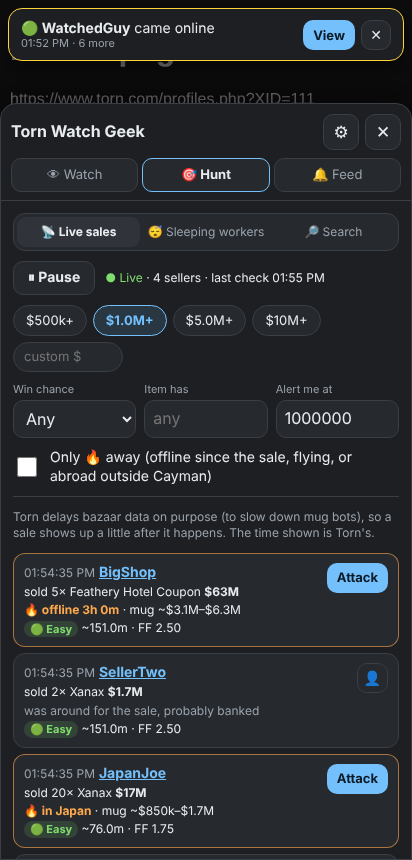
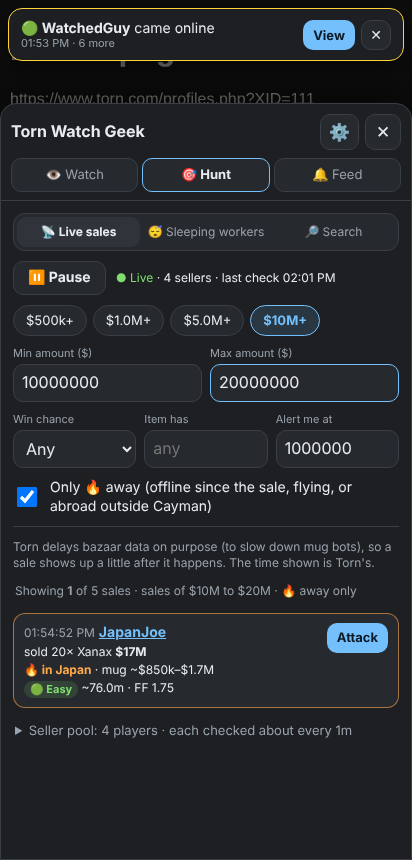
1.1.5: max amount in Live sales, stats retry, company workers, search explains zero results
- Live sales: Min and Max amount boxes (chips fill Min).
- Sellers listed without stats get them as soon as FF Scouter accepts the key.
- Sleeping workers: ask for the employees selection (company_employees);
  profile alone may not list workers. Says so if Torn sends none.
- Search: when nothing matches, list how many players each filter ruled
  out, plus a Reset filters button.
- Messages from other Hunt tabs no longer show under Live sales.

Claude-Session: https://claude.ai/code/session_01QZib5gaoEbii82ger62EmG

diff --git a/torn-watch-geek.user.js b/torn-watch-geek.user.js
@@ -1,7 +1,7 @@
 // ==UserScript==
 // @name         Torn Watch Geek
 // @namespace    https://github.com/SarcasticGeekJr/torn-watch-geek
-// @version      1.1.3
+// @version      1.1.5
 // @description  Watch players (online, hospital, jail, flight landing times, bazaar and Item Market listings) and find mug targets: rich sellers, sleeping workers in high-paying companies, and your own advanced search, all with estimated battle stats and win chance. Built for Torn PDA, works in Tampermonkey too.
 // @author       SarcasticGeekJr
 // @match        https://www.torn.com/*
@@ -48,7 +48,7 @@
 
   // ---------------------------------------------------------------- config
   const PDA_KEY = "###PDA-APIKEY###"; // Torn PDA replaces this with your key at runtime
-  const VERSION = "1.1.3"; // keep in sync with @version above
+  const VERSION = "1.1.5"; // keep in sync with @version above
   const UPDATE_URL = "https://raw.githubusercontent.com/SarcasticGeekJr/torn-watch-geek/main/torn-watch-geek.user.js";
   const TORN = "https://api.torn.com";
   const FFS = "https://ffscouter.com/api/v1/get-stats";
@@ -101,7 +101,7 @@
     fab: null,
     tab: "watch",
     hunt: "live",
-    live: { running: false, min: 1000000, onlyAway: false, win: "", item: "", alertMin: 1000000, poolMax: 30, calls: 25 },
+    live: { running: false, min: 1000000, max: "", onlyAway: false, win: "", item: "", alertMin: 1000000, poolMax: 30, calls: 25 },
     sleep: { types: [], days: 14, minStars: 0, companies: 30, okOnly: true },
     search: {
       name: "", faction: "", lvlMin: "", lvlMax: "", inMin: "", inMax: "", okOnly: true, nwMin: "", offMin: "", offMax: "",
@@ -590,16 +590,18 @@
 
   async function getCompany(cid, opts = {}) {
     const c = CO[cid];
-    if (c && c.emps && !opts.force && now() - c.t < COMPANY_TTL) return c;
-    const d = await torn(`/company/${cid}?selections=profile`, COMPANY_TTL, opts);
+    if (c && c.emps && c.v === 2 && !opts.force && now() - c.t < COMPANY_TTL) return c;
+    // Workers come from the "employees" selection (company_employees); "profile" may leave them out.
+    const d = await torn(`/company/${cid}?selections=profile,employees`, COMPANY_TTL, opts);
     const co = d.company || d;
     const emps = {};
-    for (const [uid, e] of Object.entries(co.employees || {})) {
+    for (const [uid, e] of Object.entries(d.company_employees || co.employees || {})) {
       const la = e.last_action || {};
       emps[uid] = { n: e.name, pos: e.position, dic: +e.days_in_company || 0, la: +la.timestamp || null, st: (e.status && e.status.state) || "" };
       upsert(uid, { n: e.name, la: emps[uid].la, st: emps[uid].st || null, co: +cid, ct: +co.company_type || null, pos: e.position, dic: emps[uid].dic, src: "company" });
     }
     CO[cid] = {
+      v: 2,
       t: now(),
       n: co.name,
       type: +co.company_type || 0,
@@ -648,6 +650,7 @@
       if (d && d.error) throw new Error(d.error.error || d.error.message || d.error);
       const arr = Array.isArray(d) ? d : d.data || d.results || [];
       ffErr = "";
+      for (const k of Object.keys(ffTried)) delete ffTried[k];
       for (const r of arr) {
         const id = +(r.player_id || r.id);
         if (!id) continue;
@@ -1440,7 +1443,8 @@
   function setMsg(t) {
     view.msg = t;
     const m = $(".hunt-msg");
-    if (m) m.innerHTML = t;
+    // Live sales has its own status line; messages from the other tabs don't belong there.
+    if (m) m.innerHTML = S.hunt === "live" ? "" : t;
   }
   function renderGrowMsg() {
     const m = $(".grow-msg");
@@ -1552,7 +1556,11 @@
         <span class="small livestat"></span>
       </div>
       <div class="chips">${chips.map((v) => `<button class="chip ${+f.min === v ? "on" : ""}" data-act="liveMin" data-v="${v}">${short(v)}+</button>`).join("")}
-        <input class="chip-in" data-lf="min" type="number" inputmode="numeric" placeholder="custom $" value="${chips.includes(+f.min) ? "" : esc(f.min)}"></div>
+</div>
+      <div class="filters two">
+        <label>Min amount ($)<input data-lf="min" type="number" inputmode="numeric" placeholder="0" value="${esc(f.min)}"></label>
+        <label>Max amount ($)<input data-lf="max" type="number" inputmode="numeric" placeholder="no max" value="${esc(f.max)}"></label>
+      </div>
       <div class="filters">
         <label>Win chance<select data-lf="win"><option value="">Any</option><option value="easy" ${f.win === "easy" ? "selected" : ""}>🟢 Easy</option><option value="likely" ${f.win === "likely" ? "selected" : ""}>🟡 Likely+</option><option value="risky" ${f.win === "risky" ? "selected" : ""}>🟠 Risky+</option></select></label>
         <label>Item has<input data-lf="item" type="text" placeholder="any" value="${esc(f.item)}"></label>
@@ -1582,6 +1590,7 @@
         if (["poolMax", "calls"].includes(k)) f[k] = Math.max(1, Math.min(k === "calls" ? 100 : 200, +el.value || DEFAULTS.live[k]));
         save();
         if (k === "min") $$(".chip[data-act=liveMin]").forEach((c) => c.classList.toggle("on", +c.dataset.v === +f.min));
+        if (k === "max" && el.value === "") f.max = "";
         drawLive();
       })
     );
@@ -1601,11 +1610,15 @@
     const n = Object.keys(POOL).length;
     if (st) st.innerHTML = f.running ? `<span class="g">● Live</span> · ${n} sellers${liveLast ? ` · last check ${clock(liveLast)}` : ""}${apiQueued() ? " · waiting for API limit" : ""}` : `<span class="muted">Paused</span>`;
     const min = +f.min || 0;
+    const max = +f.max || 0; // 0 = no maximum
     let noStats = 0;
     const all = LIVE.filter((r) => {
       const hot = isHot(r);
       if (f.onlyAway && !hot) return false;
-      if (r.v < min && !(hot && unbanked(r.pid) >= min)) return false;
+      // The amount that matters: the sale, or for 🔥 sellers everything unbanked since they were last seen.
+      const amt = hot ? Math.max(r.v, unbanked(r.pid)) : r.v;
+      if (amt < min) return false;
+      if (max && amt > max) return false;
       if (f.item && !r.item.toLowerCase().includes(f.item.toLowerCase())) return false;
       if (f.win) {
         const k = winOf(r.pid).k;
@@ -1615,9 +1628,11 @@
       return true;
     });
     const rows = all.slice(0, 100);
+    const missing = [...new Set(LIVE.slice(0, 150).map((r) => r.pid))].filter(needStats);
+    if (missing.length) missing.forEach((pid) => stats(pid).then(drawLiveSoon));
     // Say exactly which filters are on, so it's clear what is being used.
     const winLbl = { easy: "🟢 Easy", likely: "🟡 Likely or better", risky: "🟠 Risky or better" }[f.win];
-    const on = [`sales of ${short(min)} or more`, f.onlyAway ? "🔥 away only" : "", winLbl ? winLbl + " only" : "", f.item ? `item has "${esc(f.item)}"` : ""].filter(Boolean);
+    const on = [max ? `sales of ${short(min)} to ${short(max)}` : `sales of ${short(min)} or more`, f.onlyAway ? "🔥 away only" : "", winLbl ? winLbl + " only" : "", f.item ? `item has "${esc(f.item)}"` : ""].filter(Boolean);
     const sum = `<p class="small livesum">Showing <b>${all.length}</b> of ${LIVE.length} sales · ${on.join(" · ")}${noStats ? ` · <span class="a">${noStats} hidden because their stats haven't loaded${ffErr ? ` (${esc(ffErr)})` : ""}</span>` : ""}</p>`;
     box.innerHTML =
       sum +
@@ -1753,11 +1768,16 @@
         drawSoon();
       }
       const shown = list.filter((r) => !r.hidden);
-      setMsg(`${shown.length} sleeping workers in ${cos.length} companies. Getting stats…`);
+      const seen = cos.reduce((a, c) => a + (CO[c.cid] ? Object.keys(CO[c.cid].emps || {}).length : 0), 0);
+      if (!seen && cos.length) {
+        setMsg(`<span class="r">Torn sent no worker lists for these ${cos.length} companies, so nothing could be checked.</span>`);
+        return;
+      }
+      setMsg(`${shown.length} sleeping workers in ${cos.length} companies (${seen} workers checked). Getting stats…`);
       drawResults();
       await Promise.all(shown.slice(0, 80).map((r) => stats(r.id)));
       if (view.runId === runId) {
-        setMsg(`${shown.length} sleeping workers in ${cos.length} companies. Pay estimates are rough; the director may have fired them or cut their pay.`);
+        setMsg(`${shown.length} sleeping workers in ${cos.length} companies (${seen} workers checked). Pay estimates are rough; the director may have fired them or cut their pay.`);
         drawSoon();
       }
     } catch (e) {
@@ -1807,7 +1827,7 @@
       <label class="tog"><input type="checkbox" data-f="noClothing" ${f.noClothing ? "checked" : ""}> Hide 7★+ clothing store workers (−75% mug)</label>
       <label class="tog">Hide players I mugged in the last<input class="num" data-f="hideMugged" type="number" inputmode="numeric" value="${esc(f.hideMugged)}"> days</label>
       <label class="tog">Check details of the top<input class="num" data-f="check" type="number" inputmode="numeric" value="${esc(f.check)}"> results</label>
-      <div class="row-btn"><button class="btn" data-act="searchGo">Search</button><button class="btn ghost" data-act="grow" ${growBusy ? "disabled" : ""}>➕ Find more players</button></div>
+      <div class="row-btn"><button class="btn" data-act="searchGo">Search</button><button class="btn ghost" data-act="grow" ${growBusy ? "disabled" : ""}>➕ Find more players</button><button class="btn ghost" data-act="searchReset">Reset filters</button></div>
       <p class="muted small">Searching <b>${n.toLocaleString()}</b> players saved on this phone. 'Find more players' uses ${S.grow.calls} API calls and adds up to ${S.grow.calls * 100} from the Hall of Fame and faction lists. <span class="grow-msg">${esc(growMsg)}</span></p>`;
     bindForm(f);
     if (!CTYPES && apiKey()) companyTypes().then(() => S.hunt === "search" && view.name === "hunt" && !root.activeElement && searchForm()).catch(() => {});
@@ -1817,25 +1837,27 @@
   function needsProfile(f) {
     return !!(f.ageMin || f.ageMax || f.gender || f.property || f.ctype || f.starsMin || f.starsMax || f.noClothing || f.okOnly);
   }
-  function matchCheap(id, p, f) {
+  // Returns "" when the player passes the quick filters, or the name of the first filter that ruled them out.
+  function cheapFail(id, p, f) {
     const L = numOr;
-    if (f.name && !(p.n || "").toLowerCase().includes(f.name.toLowerCase())) return false;
+    if (f.name && !(p.n || "").toLowerCase().includes(f.name.toLowerCase())) return "name";
     if (f.faction) {
       const q = f.faction.trim().toLowerCase();
-      if (/^\d+$/.test(q) ? +q !== p.f : !(p.fn || "").toLowerCase().includes(q)) return false;
+      if (/^\d+$/.test(q) ? +q !== p.f : !(p.fn || "").toLowerCase().includes(q)) return "faction";
     }
-    if (L(f.lvlMin) != null && (p.lv == null || p.lv < +f.lvlMin)) return false;
-    if (L(f.lvlMax) != null && (p.lv == null || p.lv > +f.lvlMax)) return false;
+    if (L(f.lvlMin) != null && (p.lv == null || p.lv < +f.lvlMin)) return "level";
+    if (L(f.lvlMax) != null && (p.lv == null || p.lv > +f.lvlMax)) return "level";
     const inact = daysSince(p.la);
-    if (L(f.inMin) != null && (inact == null || inact < +f.inMin)) return false;
-    if (L(f.inMax) != null && (inact == null || inact > +f.inMax)) return false;
-    if (L(f.nwMin) != null && (p.nw == null || p.nw < +f.nwMin)) return false;
-    if (L(f.offMin) != null && (p.off == null || p.off < +f.offMin)) return false;
-    if (L(f.offMax) != null && p.off != null && p.off > +f.offMax) return false;
-    if (+f.hideMugged > 0 && MUGGED[id] && now() - MUGGED[id] < +f.hideMugged * DAY) return false;
-    if (f.okOnly && p.st && p.st !== "Okay" && now() - (p.t || 0) < HOUR) return false;
-    return true;
+    if (L(f.inMin) != null && (inact == null || inact < +f.inMin)) return "inactive days";
+    if (L(f.inMax) != null && (inact == null || inact > +f.inMax)) return "inactive days";
+    if (L(f.nwMin) != null && (p.nw == null || p.nw < +f.nwMin)) return "networth (only known for Hall of Fame players)";
+    if (L(f.offMin) != null && (p.off == null || p.off < +f.offMin)) return "offences (only known for Hall of Fame players)";
+    if (L(f.offMax) != null && p.off != null && p.off > +f.offMax) return "offences";
+    if (+f.hideMugged > 0 && MUGGED[id] && now() - MUGGED[id] < +f.hideMugged * DAY) return "mugged recently";
+    if (f.okOnly && p.st && p.st !== "Okay" && now() - (p.t || 0) < HOUR) return "not Okay";
+    return "";
   }
+  const matchCheap = (id, p, f) => !cheapFail(id, p, f);
   // Returns true (pass), false (fail) or null (still waiting for data).
   function matchSlow(id, p, f) {
     const L = numOr;
@@ -1874,10 +1896,21 @@
   }
   function searchGo() {
     const f = S.search;
-    const all = Object.entries(DB).filter(([id, p]) => matchCheap(+id, p, f));
+    const why = {};
+    const all = Object.entries(DB).filter(([id, p]) => {
+      const r = cheapFail(+id, p, f);
+      if (r) why[r] = (why[r] || 0) + 1;
+      return !r;
+    });
     if (!all.length) {
       view.results = { mode: "search", list: [] };
-      view.msg = Object.keys(DB).length ? "" : "Your players list is empty. Tap '➕ Find more players' first.";
+      const total = Object.keys(DB).length;
+      view.msg = total
+        ? `None of your <b>${total.toLocaleString()}</b> saved players pass the filters. Ruled out by: ${Object.entries(why)
+            .sort((a, b) => b[1] - a[1])
+            .map(([k, n]) => `<b>${esc(k)}</b> ${n.toLocaleString()}`)
+            .join(" · ")}. <button class="link" data-act="searchReset">Reset filters</button>`
+        : "Your players list is empty. Tap '➕ Find more players' first.";
       drawResults();
       return;
     }
@@ -2018,6 +2051,7 @@
         save();
         memo.clear();
         deadKey = "";
+        for (const k of Object.keys(ffTried)) delete ffTried[k];
         ffErr = "";
         toast("Saved");
       })
@@ -2172,6 +2206,13 @@
         break;
       case "searchGo":
         searchGo();
+        break;
+      case "searchReset":
+        S.search = Object.assign({}, DEFAULTS.search);
+        save();
+        view.results = null;
+        view.msg = "Filters cleared. Tap Search to list your saved players.";
+        render();
         break;
       case "grow":
         if (!apiKey()) return toast("Add an API key first", "bad");
